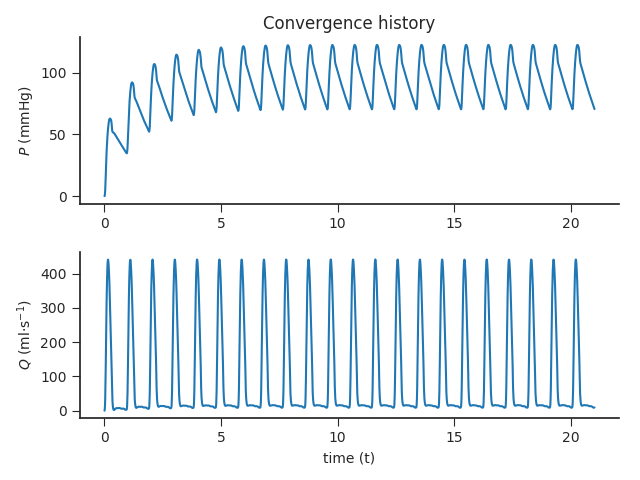
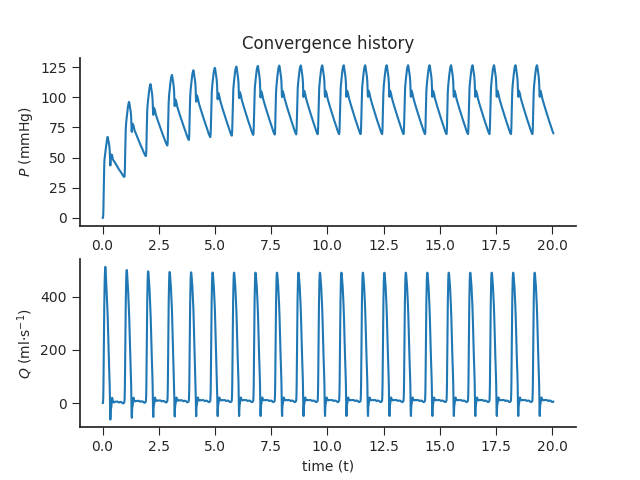
Fix plots

diff --git a/models/template/plot.py b/models/template/plot.py
@@ -2,7 +2,7 @@ import numpy as np
 import matplotlib.pyplot as plt
 import seaborn as sns
 
-a_name = "alastruey2007modelling_results/23-L-MCA_"
+a_name = "template_results/vessel_"
 
 sns.set_style("ticks")
 fig1 = plt.figure(1)
@@ -17,8 +17,8 @@ ax3 = fig2.add_subplot(211)
 ax4 = fig2.add_subplot(212)
 sns.despine()
 
-titles = ["Cardiac cycle - Right middle cerebral artery",
-            "Convergence history - Right middle cerebral artery"]
+titles = ["Cardiac cycle - vessel name",
+            "Convergence history - vessel name"]
 for axs, ext, title in zip([[ax1, ax2], [ax3, ax4]], [".last", ".out"], titles):
     for q, ax, m, lbl in zip(["P", "Q"], axs, [133.332, 1e-6], ["$P$ (mmHg)",
                             "$Q$ (ml$\cdot$s$^{-1}$)"]):
@@ -39,5 +39,5 @@ for axs, ext, title in zip([[ax1, ax2], [ax3, ax4]], [".last", ".out"], titles):
 plt.draw()
 plt.show()
 
-fig1.savefig("imgs/{}.png".format(titles[0].split("-")[0].replace(" ","")))
-fig2.savefig("imgs/{}.png".format(titles[1].split("-")[0].replace(" ","")))
+# fig1.savefig("imgs/{}.png".format(titles[0].split("-")[0].replace(" ","")))
+# fig2.savefig("imgs/{}.png".format(titles[1].split("-")[0].replace(" ","")))

diff --git a/models/matthys2007pulse/plot.py b/models/matthys2007pulse/plot.py
@@ -2,7 +2,7 @@ import numpy as np
 import matplotlib.pyplot as plt
 import seaborn as sns
 
-a_name = "network_results/v1_"
+a_name = "network_results/v10_"
 
 
 sns.set_style("ticks")
@@ -18,8 +18,8 @@ ax3 = fig2.add_subplot(211)
 ax4 = fig2.add_subplot(212)
 sns.despine()
 
-titles = ["Cardiac cycle - Ascending aorta",
-            "Convergence history - Ascending aorta"]
+titles = ["Cardiac cycle - Aortic arch II",
+            "Convergence history - Aortic arch II"]
 for axs, ext, title in zip([[ax1, ax2], [ax3, ax4]], [".last", ".out"], titles):
     for q, ax, m, lbl in zip(["P", "Q"], axs, [133.332, 1e-6], ["$P$ (mmHg)",
                             "$Q$ (ml$\cdot$s$^{-1}$)"]):

diff --git a/README.md b/README.md
@@ -6,7 +6,7 @@ Repository of vascular networks for [openBF](https://github.com/INSIGNEO/openBF)
 - [Common carotid](https://github.com/alemelis/openBF-hub/tree/master/models/boilleau2015benchmark/common_carotid)
 - [Iliac bifurcation](https://github.com/alemelis/openBF-hub/tree/master/models/boilleau2015benchmark/iliac_bifurcation)
 - Systemic circulation:
-  <!-- - [ADAN56](https://github.com/alemelis/openBF-hub/tree/master/models/boilleau2015benchmark/adan56) -->
+  - [ADAN56](https://github.com/alemelis/openBF-hub/tree/master/models/boilleau2015benchmark/adan56)
   - [In vitro model](https://github.com/alemelis/openBF-hub/tree/master/models/matthys2007pulse)
 - [Circle of Willis](https://github.com/alemelis/openBF-hub/tree/master/models/alastruey2007modelling)
 
